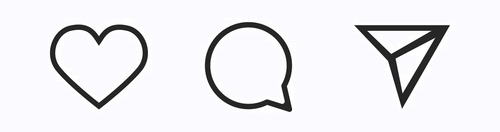
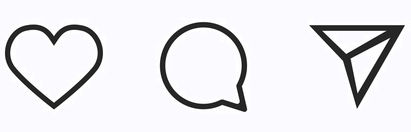
Added description section for instagram ad view

Changed region(s): [[0.0, 0.1818, 0.3212, 0.8485], [0.7007, 0.1818, 0.9927, 0.8182], [0.3796, 0.1515, 0.6131, 0.8485]]

diff --git a/src/App.scss b/src/App.scss
@@ -1177,19 +1177,42 @@ html{
                         }
 
                         .ad-icons{
-                            padding: 0;
-                            margin: 0 2px;
+                            margin-top: 5px;
+                            // margin: 0 2px;
                             // width: 96%;
                             // background-color: #eeeeee;
 
                             .icon{
-                                width: 32%;
-                                // height: 132px;
+                                width: 27%;
+                                margin: 0 5px;
                             }
                             .saveIcon{
-                                height: 40px;
+                                height: 35px;
+                                margin: 0 5px;
                             }
                             
+                        }
+
+                        .views-section{
+                            p{
+                                font-weight: bold;
+                                font-size: 0.9rem;
+                                margin: 5px;
+                            }
+                        }
+                        .description-section{
+                            margin: 5px;   
+
+                            .description{
+                                font-size: 0.9rem;
+                                font-weight: 500;
+                            }
+
+                            .account-name{
+                                font-weight: bold;
+                                font-size: 0.9rem;
+                                
+                            }
                         }
                     }
 

diff --git a/src/components/AdManager/CreateAd/AdPlacement/FacebookPlacements/AdViewFb.js b/src/components/AdManager/CreateAd/AdPlacement/FacebookPlacements/AdViewFb.js
@@ -79,9 +79,13 @@ const AdViewFb = (props) => {
                                 <img src={likeIconInstagram} className="icon" alt="likeIconInstagram" /> */}
                             </div>
                             <img src={saveIconInstagram} className="saveIcon" alt="saveIconInstagram" />
-
                         </div>
-                    
+                        <div class="views-section">
+                            <p>125,406 views</p>
+                        </div>
+                        <div class="description-section ">
+                            <p className="description"><span className="account-name">socialads</span> Lorem ipsum dolor sit amet consectetur, adipisicing elit. Iusto, quisquam?</p>
+                        </div>
                     
                     </div>
                 </Tab>
